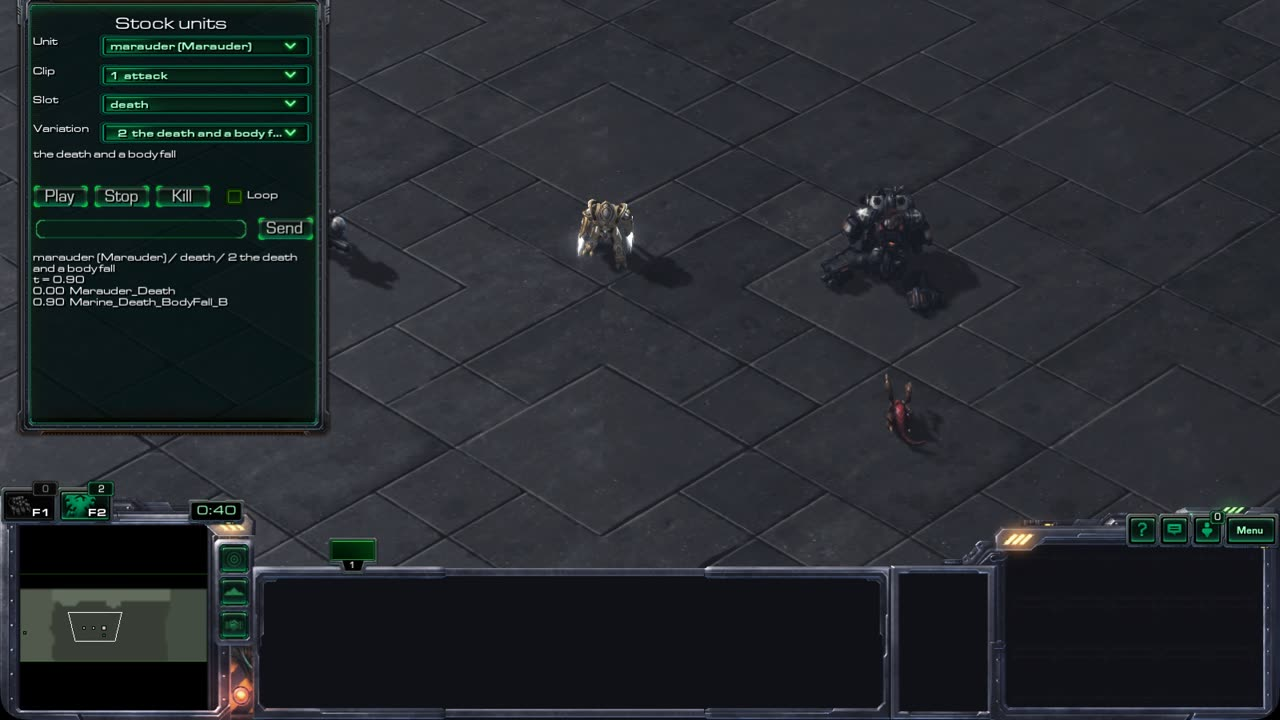
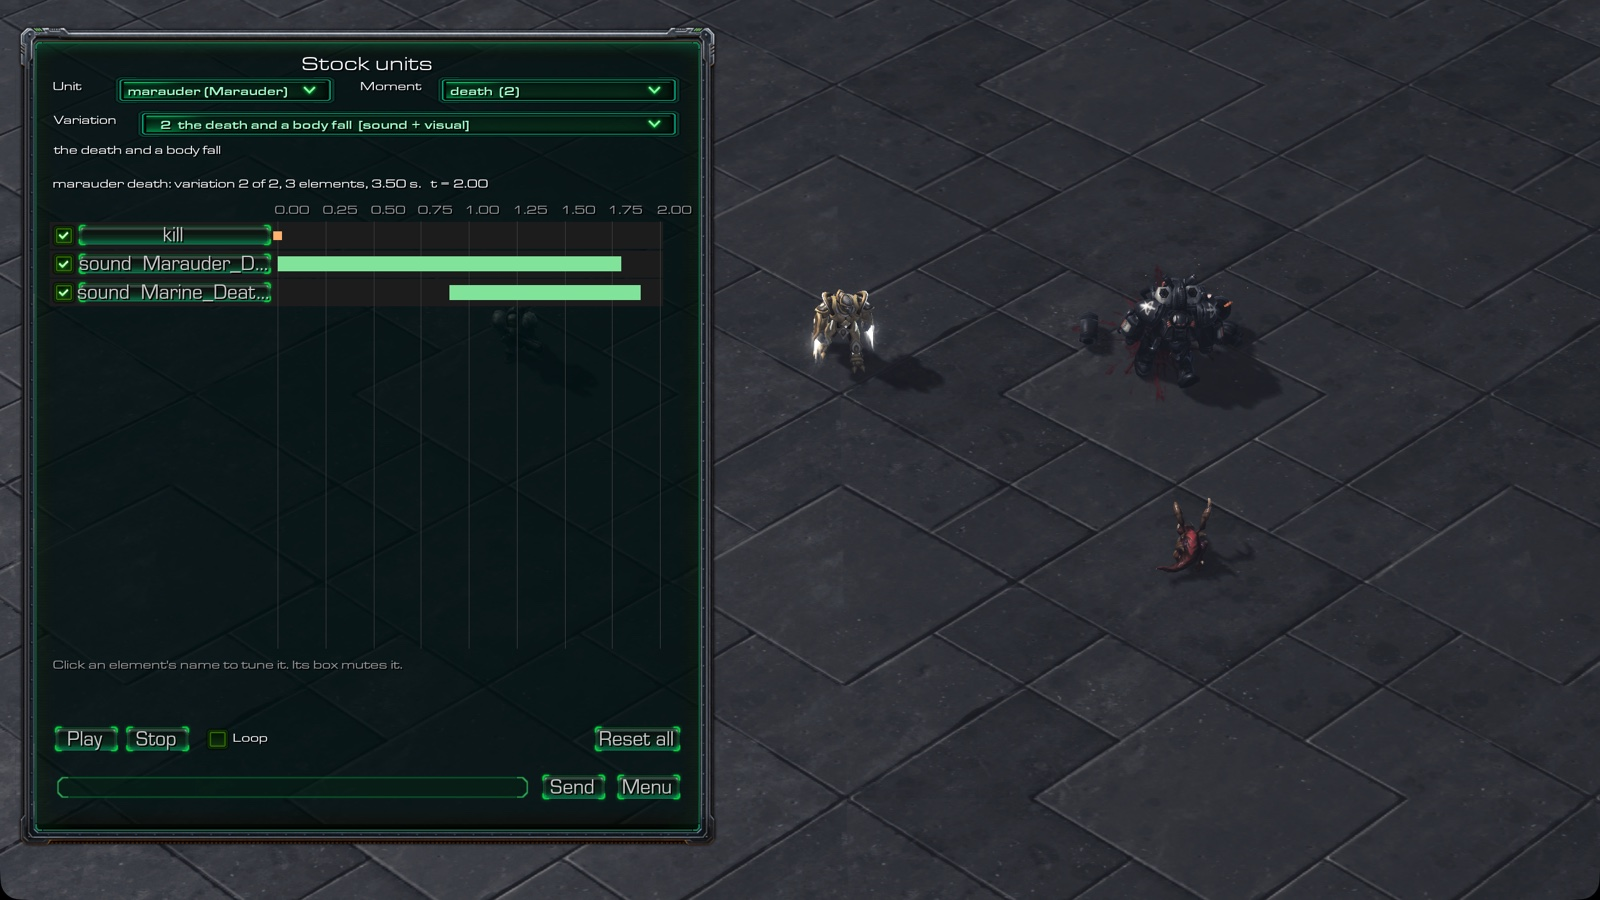
anim-testbed: the camera beside the taller dialog, and new screenshots
- A tour's cameraShift default goes from 7 to 4.5: a capture showed the
  selected unit near the screen's right edge, not in the open area.
- The bars' area is 30 narrower so the last time label ends inside the
  border, and the hint under the timeline fits on its line.
- "1 element", not "1 elements", in the header.
- The site's four screenshots are retaken with --capture.

diff --git a/packages/plugin-anim-testbed/spec.ts b/packages/plugin-anim-testbed/spec.ts
@@ -143,10 +143,10 @@ export const SpecSchema = z
         player: z.number().int().min(0).max(15).default(0),
         /** A tour's camera: its distance from each stop's unit, and how far left of it it looks, so the unit shows right of the dialog. */
         cameraDistance: z.number().positive().default(22),
-        cameraShift: z.number().default(7),
+        cameraShift: z.number().default(4.5),
       })
       .strict()
-      .default({ at: [64, 64], gap: 4, facing: 270, fog: false, player: 0, cameraDistance: 22, cameraShift: 7 }),
+      .default({ at: [64, 64], gap: 4, facing: 270, fog: false, player: 0, cameraDistance: 22, cameraShift: 4.5 }),
     target: z
       .object({ unit: z.string().regex(ID), player: z.number().int().min(0).max(15).default(1) })
       .strict()

diff --git a/packages/plugin-anim-testbed/README.md b/packages/plugin-anim-testbed/README.md
@@ -101,7 +101,7 @@ JSON, with `//` comments allowed. Paths are relative to the spec, or `<root>:pat
 | `base` | Any Editor-saved `.SC2Map` folder, usually the Mission's Map Package. Its triggers are replaced; its terrain and data are kept |
 | `out` | The map to write, inside an `output/` folder. By default `output/<name>.SC2Map` beside the base map: the Mission's git-ignored `output/` |
 | `roots` | `{ "x": "~/private/folder" }`, so a spec names private files (extracted game files, a model's exports) without machine paths |
-| `stage` | `at` [x, y] of the first unit, `gap` between units, `facing` (270: models face as exported), `fog` (false), `player` (0, neutral), and a tour's `cameraDistance` (22) and `cameraShift` (7, how far left of the unit the camera looks, so it shows right of the dialog) |
+| `stage` | `at` [x, y] of the first unit, `gap` between units, `facing` (270: models face as exported), `fog` (false), `player` (0, neutral), and a tour's `cameraDistance` (22) and `cameraShift` (4.5, how far left of the unit the camera looks, so it shows right of the dialog) |
 | `target` | `{ "unit": "Zergling", "player": 1 }`: stands `reach` in front of the selected unit; impact sounds play on it. Optional |
 | `moments` | The moments' names, in dropdown order. By default, the order the units first name them |
 | `sounds` | CSound id → `{ "parent", "from": folder, "files": [globs], "fields": {…} }`: the map's own sounds, from files the build copies in |
